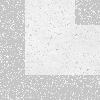
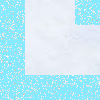
design menu choix theme

diff --git a/src/vue/MazeGameGUI.java b/src/vue/MazeGameGUI.java
@@ -66,14 +66,15 @@ public class MazeGameGUI extends JFrame implements MouseListener, MouseMotionLis
 	private JDialog rulesFrame;
 	private JPanel backgroundPane;
 	private boolean mazeAltered = false;
+	private JLabel test;
 
 	
 	public MazeGameGUI(Dimension dim) {
 		
-		Box bPlayers,bOK,bMenu,bRules,bTheme;
+		Box bPlayers,bOK,bMenu,bRules,bTheme,bimgTheme;
 		JButton reglesButton, okButton;
-		ButtonGroup grpButton, grpButton2;
-		JRadioButton nb2Button, nb3Button, nb4Button, theme1, theme2, theme3;
+		ButtonGroup grpButton, grpButton2, grpButton3;
+		JRadioButton nb2Button, nb3Button, nb4Button, theme1, theme2, theme3, imgTheme1, imgTheme2, imgTheme3;
 		final Font myFont = new Font("Calibri", Font.ITALIC | Font.BOLD, 18);
 
 		this.dim = dim; //Dimension du plateau de jeu 
@@ -149,9 +150,9 @@ public class MazeGameGUI extends JFrame implements MouseListener, MouseMotionLis
                 1, 1, 1, 1, Color.WHITE));
 		
 		grpButton2 = new ButtonGroup();
-		theme1 = new JRadioButton("LA PRAIRIE MEUH MEUH");
-		theme2 = new JRadioButton("LE CHÂTEAU DE BOWSER");
-		theme3 = new JRadioButton("LA MONTAGNE GLA GLA");
+		theme1 = new JRadioButton(/*"LA PRAIRIE MEUH MEUH"*/);
+		theme2 = new JRadioButton(/*"LE CHÂTEAU DE BOWSER"*/);
+		theme3 = new JRadioButton(/*"LA MONTAGNE GLA GLA"*/);
 		
 		theme1.setFont(myFont);
 		theme2.setFont(myFont);
@@ -173,6 +174,42 @@ public class MazeGameGUI extends JFrame implements MouseListener, MouseMotionLis
 		theme2.setOpaque(true); 
 		theme3.setOpaque(true);
 		
+		grpButton3 = new ButtonGroup();
+		imgTheme1 = new JRadioButton();
+		imgTheme2 = new JRadioButton();
+		imgTheme3 = new JRadioButton();
+		
+		imgTheme1.setIcon(new ImageIcon(getClass().getResource("../images/theme/green/ico.jpg")));
+		imgTheme2.setIcon(new ImageIcon(getClass().getResource("../images/theme/lava/ico.jpg")));
+		imgTheme3.setIcon(new ImageIcon(getClass().getResource("../images/theme/snow/ico.jpg")));
+
+		imgTheme1.setOpaque(false);
+		imgTheme2.setOpaque(false);
+		imgTheme3.setOpaque(false);
+		
+		imgTheme1.addActionListener(new ActionListener() {
+			public void actionPerformed(ActionEvent e) {
+				theme = "green";
+				theme1.setSelected(true);				
+			}
+		});
+		imgTheme2.addActionListener(new ActionListener() {
+			public void actionPerformed(ActionEvent e) {
+				theme = "lava";
+				theme2.setSelected(true);
+			}
+		});
+		imgTheme3.addActionListener(new ActionListener() {
+			public void actionPerformed(ActionEvent e) {
+				theme = "snow";
+				theme3.setSelected(true);
+			}
+		});
+		
+		grpButton3.add(imgTheme1);
+		grpButton3.add(imgTheme2);
+		grpButton3.add(imgTheme3);
+		
 		grpButton2.add(theme1);
 		grpButton2.add(theme2);
 		grpButton2.add(theme3);
@@ -182,20 +219,28 @@ public class MazeGameGUI extends JFrame implements MouseListener, MouseMotionLis
 		theme1.addActionListener(new ActionListener() {
 			public void actionPerformed(ActionEvent e) {
 				theme = "green";
+				imgTheme1.setSelected(true);
 			}
 		});
 		theme2.addActionListener(new ActionListener() {
 			public void actionPerformed(ActionEvent e) {
 				theme = "lava";
+				imgTheme2.setSelected(true);
 			}
 		});
 		theme3.addActionListener(new ActionListener() {
 			public void actionPerformed(ActionEvent e) {
 				theme = "snow";
+				imgTheme3.setSelected(true);
 			}
 		});
 		
-		// on cree le container du choix des themes 
+		// on cree le container du choix des themes
+		bimgTheme = Box.createHorizontalBox();
+		bimgTheme.add(imgTheme1);
+	    bimgTheme.add(imgTheme2);
+	    bimgTheme.add(imgTheme3);
+
 	    bTheme = Box.createHorizontalBox();
 	    bTheme.setOpaque(false); 
 	    bTheme.add(theme1);
@@ -319,6 +364,7 @@ public class MazeGameGUI extends JFrame implements MouseListener, MouseMotionLis
 		
 		bMenu.add(bPlayers);
 		bMenu.add(bSpace);
+		bMenu.add(bimgTheme);
 		bMenu.add(bTheme);
 		bMenu.add(bOK);
 		bMenu.add(bRules);
